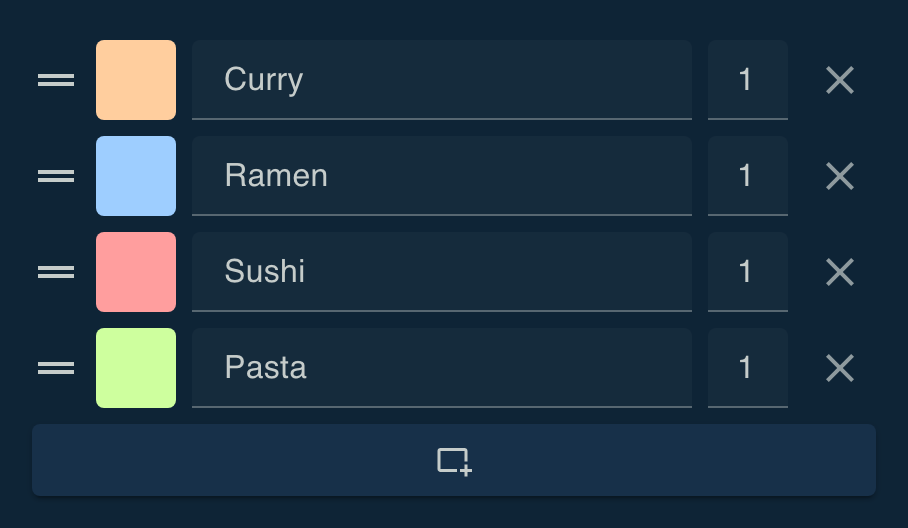
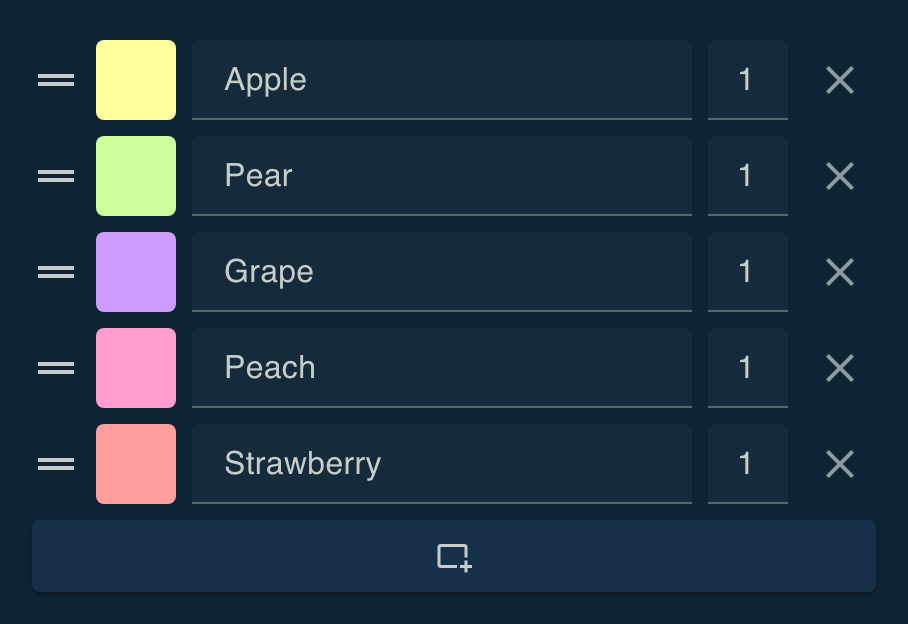
fix: 使い方の画像の項目を、前と同じくだものに戻す
リストとルーレットのどちらも、林檎・梨・葡萄・桃・苺の5件で撮り直す。
リストの画像の大きさが変わったので aspect-ratio と alt も直す。

diff --git a/app/components/TutorialDialog.vue b/app/components/TutorialDialog.vue
@@ -21,7 +21,7 @@
             <v-img
               :src="imageSrc('items')"
               :alt="$t('tutorial_image_1_alt')"
-              :aspect-ratio="908 / 528"
+              :aspect-ratio="908 / 624"
             />
           </div>
         </section>
